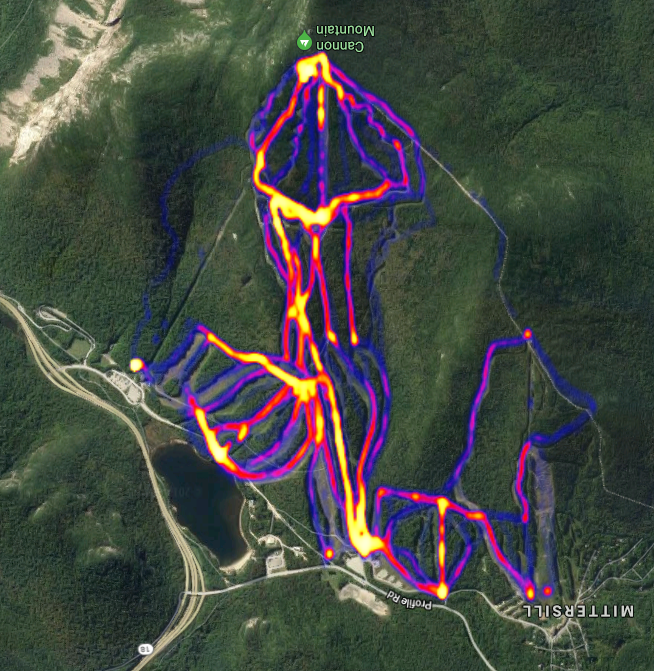
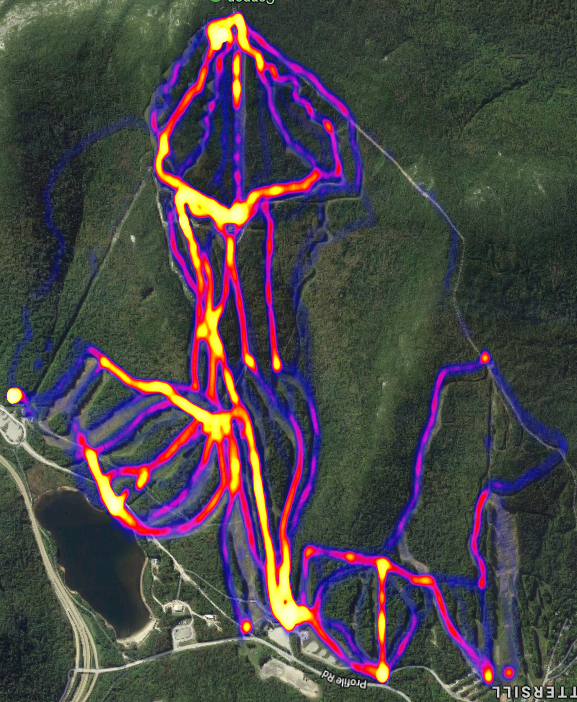
Add logging for time to complete

diff --git a/src/main.js b/src/main.js
@@ -18,6 +18,7 @@ const logInfo = str => console.log(chalk.white(str));
 const logDetail = str => console.log(chalk.green(str));
 
 module.exports = async function Main(opts) {
+    const startTime = Date.now();
     const options = Object.assign({}, defaultOptions, opts);
 
     const { tracksDir, outputFile, imageWidth, coordinatePaddingPercent, filters } = options;
@@ -33,7 +34,7 @@ module.exports = async function Main(opts) {
     logInfo(`Applying ${chalk.yellow(opts.filters ? filters.length : 0)} track filters`);
     let filteredTracks = tracks;
     if (filters.length > 0) 
-        filters.forEach(filter => filteredTracks = tracks.map(segs => segs.map(filter)));
+        filters.forEach(filter => filteredTracks = filteredTracks.map(segs => segs.map(filter)));
 
     // Combine all trksegs in all gpx files
     const flatten = arr => arr.reduce((flat, el) => flat.concat(el), []);
@@ -49,6 +50,10 @@ module.exports = async function Main(opts) {
 (${chalk.yellow(bounds.minlat)}, ${chalk.yellow(bounds.minlon)})`);
     
     logInfo(`Writing image to ${chalk.yellow(outputFile)}`);
+
+    const endTime = Date.now();
+    const timeToComplete = (endTime - startTime) / 1000;
+    logInfo(`Took ${chalk.yellow(`${timeToComplete} second${timeToComplete !== 1 ? 's': ''}`)} to generate heatmap`);
 
     const image = new PNG({ width, height });
     image.data = pixels;

diff --git a/index.js b/index.js
@@ -3,7 +3,7 @@ const liftFilter = require('./src/lift-filter');
 require('./src/main')({
     tracksDir: './tracks',
     outputFile: './heatmap.png',
-    imageWidth: 512,
+    imageWidth: 1024,
     coordinatePaddingPercent: 0.01,
     filters: [
         liftFilter({}),
